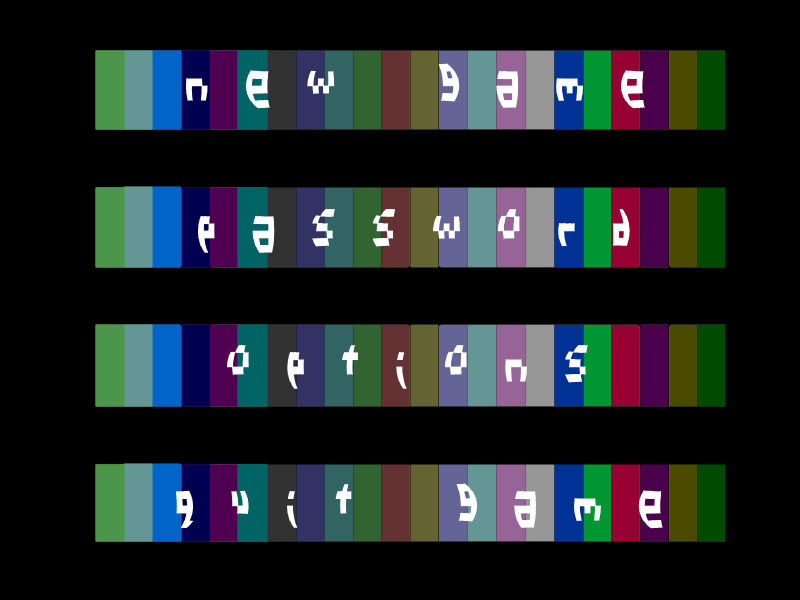
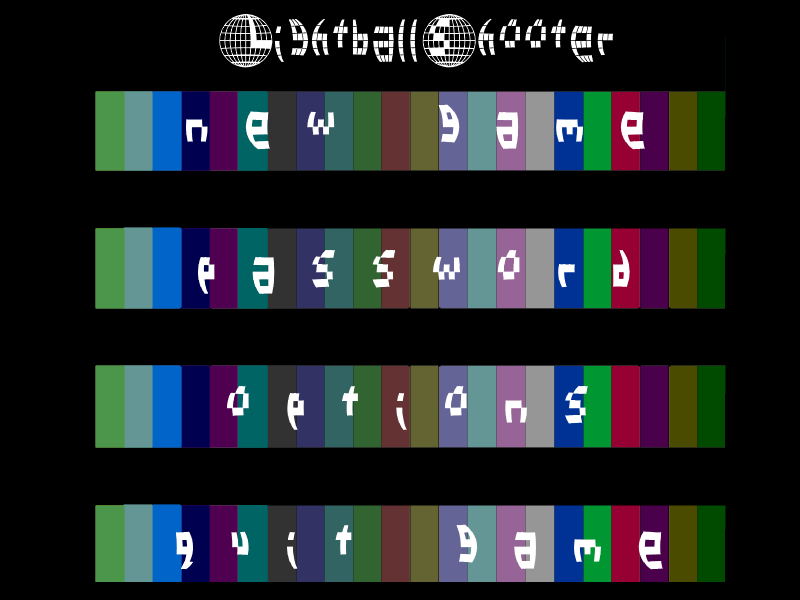
Updated some things here and there, added the lightball mover

diff --git a/BubbleShooter2/BubbleShooterScene.py b/BubbleShooter2/BubbleShooterScene.py
@@ -28,16 +28,19 @@ class BubbleShooterScene(SceneManager.Scene):
 
         self.player = Player(self.allSprites, self.lightBallSprites, self.lightBallImages, self.allSprites, self.playerSprites)
 
-        self.routePositions = ([400 ,700], [400, 50], [1200, 50], [1200, 800])
+        self.routePositions = ([400 ,700], [400, 50], [1200, 50], [1200, 700])
         self.spawnTimer = 0
         self.ballsToSpawn = 10
 
 
+        mark = 0
         #     def __init__(self, spawnPos, playerInstance, lightBallImage, lightBallColor, *sprite_groups):
         for i in range(0, self.ballsToSpawn):
-            lightBallColor, lightBallImage = random.choice(list(self.lightBallImages.items()))
-            LightBall((self.routePositions[0][0], self.routePositions[0][1] - 45 * i), self.player, lightBallImage, lightBallColor, True, self.routePositions,self.allSprites, self.lightBallSprites)
-
+            mark += 1
+            if mark == 2:
+                mark = 0
+                lightBallColor, lightBallImage = random.choice(list(self.lightBallImages.items()))
+                LightBall((self.routePositions[0][0], self.routePositions[0][1] - 45 * i), self.player, lightBallImage, lightBallColor, True, self.routePositions, self.allSprites, self.lightBallSprites)
 
     def render(self, screen):
         self.allSprites.clear(screen, self.backgroundImage)
@@ -48,15 +51,31 @@ class BubbleShooterScene(SceneManager.Scene):
     def handle_events(self, events):
         self.player.eventHandler = events
         for event in events:
-            pass
+            if event.type == pygame.MOUSEBUTTONDOWN and event.button == 1:
+                mousePos = pygame.mouse.get_pos()
+                for sprite in self.lightBallSprites.sprites():
+
+                    if sprite.rect.collidepoint(mousePos):
+                        sprite.kill()
 
     def update(self, deltaTime):
-        for lightBall in self.lightBallSprites:
-            if lightBall.isOnRoute:
-                lightBall.isLastInLine = True
-                break
-        self.allSprites.update(deltaTime, self.allSprites, self.lightBallSprites)
 
+        firstIsGettingPushed = False
+        for i in range(len(self.lightBallSprites.sprites())):
+            currentLightball = self.lightBallSprites.sprites()[i]
+            if currentLightball.isOnRoute:
+                if firstIsGettingPushed == False:
+                    currentLightball.canMove = True
+                    firstIsGettingPushed = True
+                if i < len(self.lightBallSprites.sprites()) - 1:
+                    nextLightballInList = self.lightBallSprites.sprites()[i + 1]
+
+                    if currentLightball.position.get_distance(nextLightballInList.position) < 40:
+                        nextLightballInList.canMove = True
+                    else:
+                        nextLightballInList.canMove = False
+
+        self.allSprites.update(deltaTime, self.allSprites, self.lightBallSprites)
 
     def spawnBalls(self):
         pass

diff --git a/BubbleShooter2/LightBall.py b/BubbleShooter2/LightBall.py
@@ -1,6 +1,6 @@
 import sys, pygame, math, random, SceneManager
 from pygame import gfxdraw
-from pygame.math import Vector2 as Vector2
+from Vector2 import Vector2
 
 class LightBall(pygame.sprite.Sprite):
 
@@ -12,6 +12,7 @@ class LightBall(pygame.sprite.Sprite):
         self.lightBallImage = pygame.transform.scale(self.lightBallImage, (40, 40))
         self.position = Vector2(spawnPos)
         self.velocity = 400
+        self.movementSpeed = 290
         self.velocityVector = Vector2(0, 0)
 
         self.image = self.lightBallImage
@@ -25,15 +26,39 @@ class LightBall(pygame.sprite.Sprite):
         self.isOnRoute = isOnRoute
         self.routePositions = routePositions
 
+        self.destinationPosIndex = 0
+        self.destinationPosIndex += 1
+        self.nextPositionToGoTo = None
+
+        if self.isOnRoute:
+            self.nextPositionToGoTo = Vector2(self.routePositions[self.destinationPosIndex][0], self.routePositions[self.destinationPosIndex][1])
+
     def update(self, deltaTime, allSprites, lightBallSprites):
-        if (self.canMove == True):
-            if (self.isOnRoute == False):
+        if (self.canMove):
+            if (self.isOnRoute == False): # Shooting
                 self.position += self.velocityVector * self.velocity * deltaTime
-            else:
-                self.pushNextLightBall(lightBallSprites)
+            else: # Walking
+
+                moveToPositionVector = self.nextPositionToGoTo - self.position
+
+                if self.position.get_distance(self.nextPositionToGoTo) > 0:
+                    moveToPositionVector.length = 1
+
+                if moveToPositionVector.length > self.nextPositionToGoTo.get_distance(self.position):
+                    moveToPositionVector.length = self.nextPositionToGoTo.get_distance(self.position)
+
+                    if self.destinationPosIndex + 1 < len(self.routePositions):
+                        self.destinationPosIndex += 1
+                        self.nextPositionToGoTo = Vector2(self.routePositions[self.destinationPosIndex][0],
+                                                         self.routePositions[self.destinationPosIndex][1])
+                    else:# Reached the end
+                        self.kill()
+
+                self.position += moveToPositionVector * self.movementSpeed * deltaTime
 
         self.rect = self.lightBallImage.get_rect()
         self.rect.center = self.position
+
         if(self.isOnRoute == False):
             if (self.position.x > 1650 or
                 self.position.x < -50 or
@@ -42,6 +67,3 @@ class LightBall(pygame.sprite.Sprite):
                 self.playerInstance.lightBallInTheAir = False
                 self.kill()
                 self.playerInstance.loadNewLightBall()
-
-    def pushNextLightBall(self, lightBallSprite):
-        pass

diff --git a/BubbleShooter2/BubbleShooterMainMenuScene.py b/BubbleShooter2/BubbleShooterMainMenuScene.py
@@ -12,7 +12,7 @@ class BubbleShooterMainMenuScene(SceneManager.Scene):
         self.OptionsButton = Button.Button("", None, None, (220, 220, 220), (220, 220, 220), 180, 487, 1280, 120)
         self.QuitGameButton = Button.Button("", None, None,  (220, 220, 220), (220, 220, 220), 180, 690, 1280, 120)
 
-        self.backgroundImage = pygame.image.load('BubbleShooter\Images\MainMenu.png').convert_alpha()
+        self.backgroundImage = pygame.image.load('BubbleShooter2\Images\MainMenu.png').convert_alpha()
         self.backgroundImage = pygame.transform.scale(self.backgroundImage, (1600, 900))
         self.backgroundImageRect = self.backgroundImage.get_rect()
 
@@ -36,4 +36,4 @@ class BubbleShooterMainMenuScene(SceneManager.Scene):
         if (self.OptionsButton.click()):
             pass
         if (self.QuitGameButton.click()):
-            SceneManager.SceneManager.goToScene('MainMenuScene.MainMenuScene')
+            SceneManager.SceneManager.goToScene('MainMenu.MainMenuScene.MainMenuScene')

diff --git a/BubbleShooter2/Levels/Level1.py b/BubbleShooter2/Levels/Level1.py
@@ -2,14 +2,6 @@ import sys, pygame, math
 from pygame.locals import *
 
 class level1():
-    def __init__(self):
-        pass
 
-    def render(self, screen):
-        pass
-
-    def handle_events(self, events):
-        pass
-
-    def update(self, deltaTime):
-        pass
+     def __init__(self):
+         self.routePositions = ([400 ,700], [400, 50], [1200, 50], [1200, 700])
